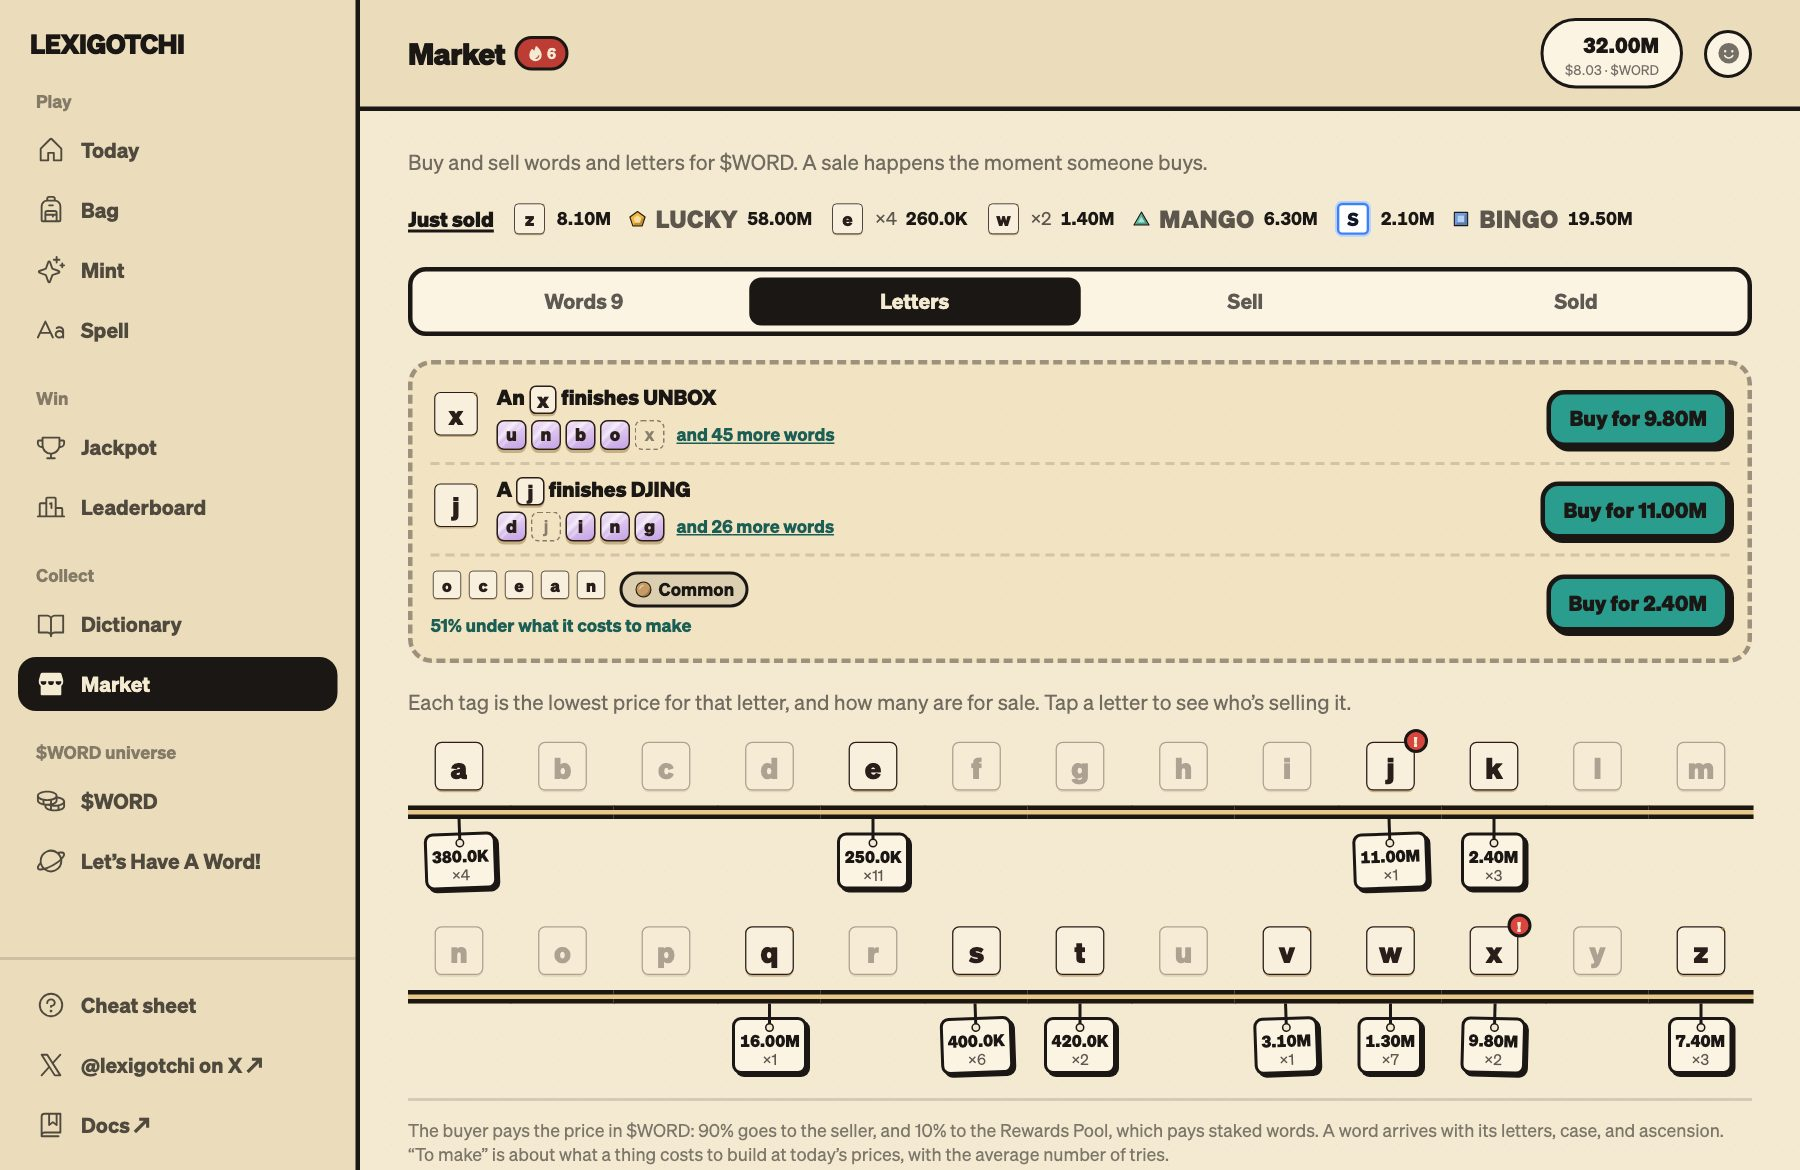
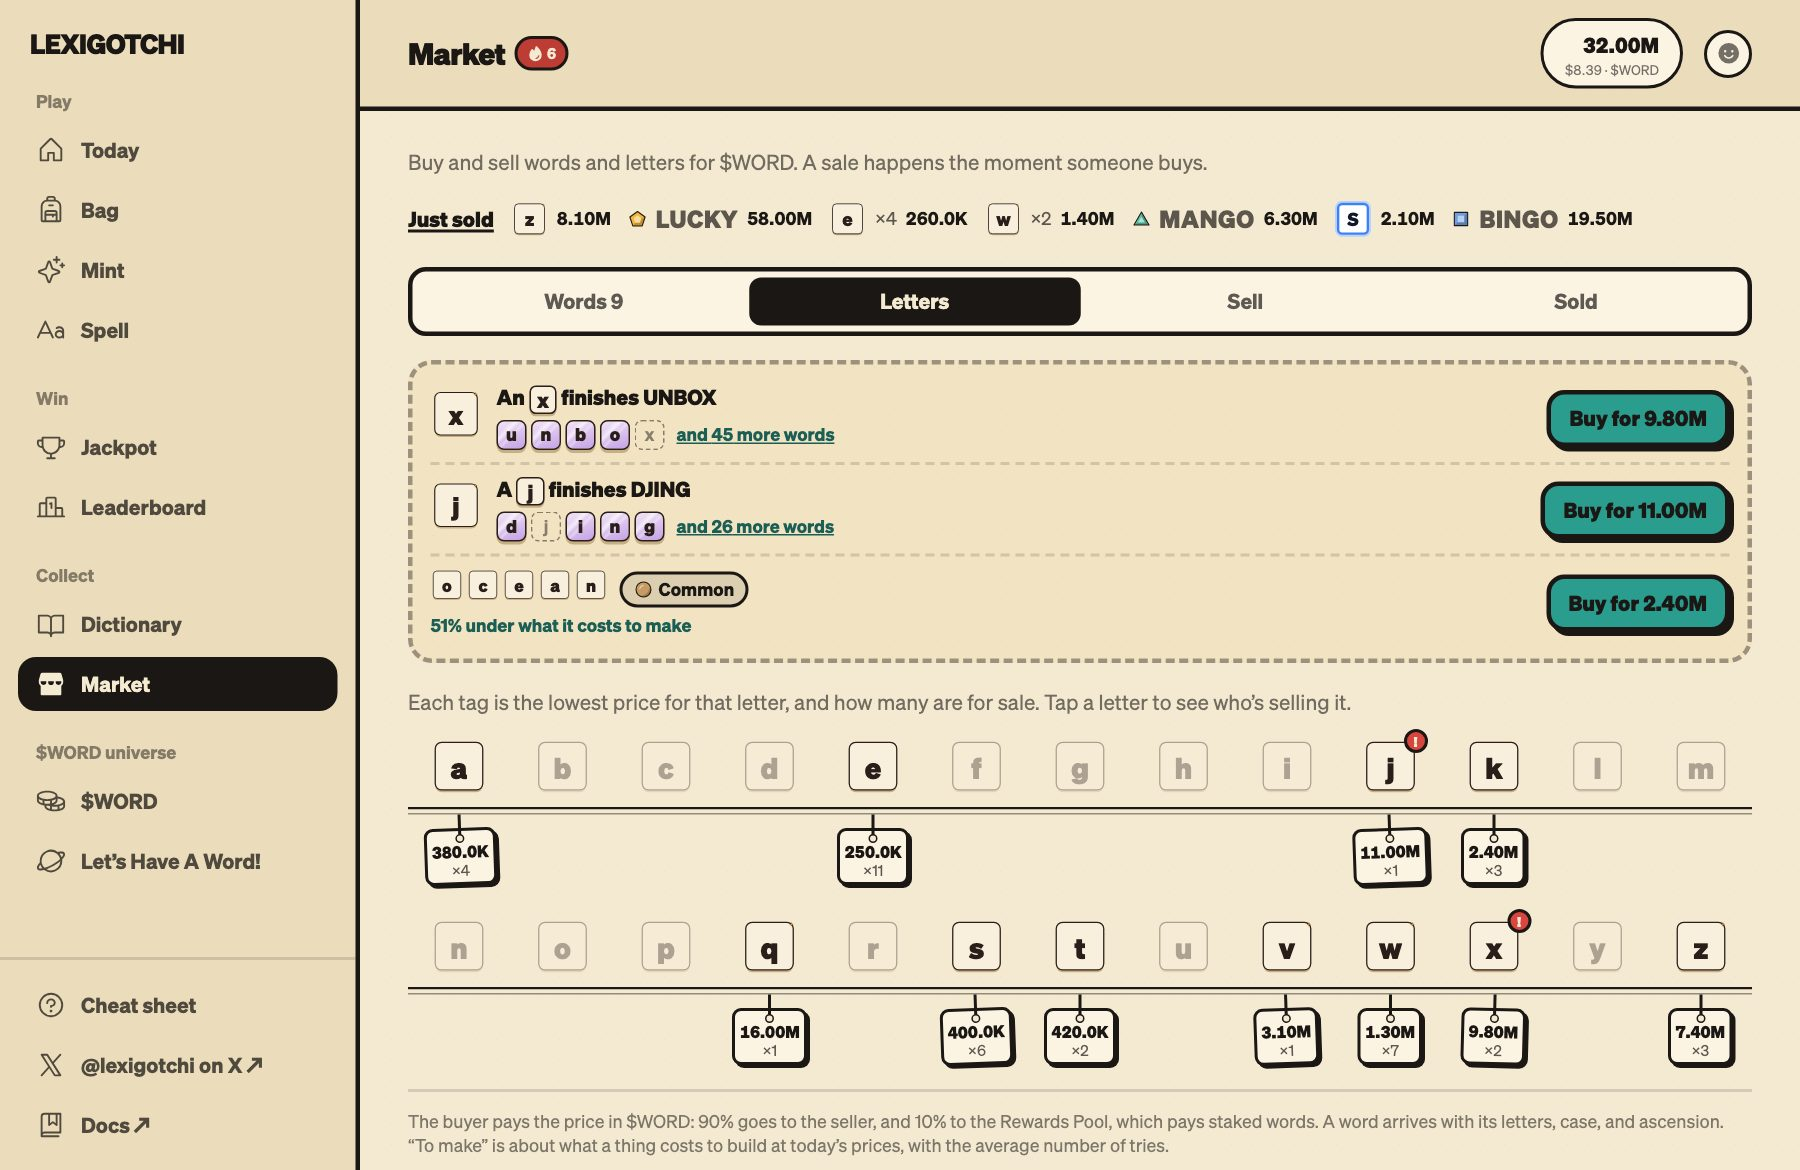
The Market's letters stand on a fine double rule, one line a row (decisions.md #50, part 3) (#281)
* WIP: the Market's shelf stands on a fine double rule

* The Market's letters stand on a fine double rule, one line a row (decisions.md #50, part 3)

The owner, on the review page "Four Bigger Pieces": "yes to 2C".

The shelf was a flat tan plank between two heavy ink lines, a piece
under each letter. It is an ink line with a fainter one under it, as a
card's frame is ruled. The tags are as they were.

One line a row, drawn by the row's first slot: a piece a slot showed a
darker tick at every join at pixel ratios 1.25 and 1.5 (each piece is a
pixel wider than its slot, and a thin line was drawn twice there), and
pieces exactly a slot wide left gaps in WebKit. The line lets taps
through to the letter above it.

---------

Changed region(s): [[0.2178, 0.6769, 0.9956, 1.0]]

diff --git a/tests/market-shelf.test.ts b/tests/market-shelf.test.ts
@@ -1,0 +1,72 @@
+/**
+ * The Market's letter shelf (globals.css, .mk-rule; decisions.md #50, part 3): the letters stand on
+ * a fine double rule, drawn ONCE a row. The owner chose it over a plank ("yes to 2C").
+ *
+ * A line made of one piece a slot has joins. Pieces a pixel wider than their slots showed a darker
+ * tick at every join at pixel ratios 1.25 and 1.5 (thin lines drawn twice), and pieces exactly a
+ * slot wide left gaps there in WebKit. So the first slot of each row draws the whole row's line,
+ * and the count of slots in a row is written in two places that must agree: the grid's columns
+ * (LettersBoard) and the rule's width here.
+ */
+import { describe, it, expect } from "vitest";
+import { readFileSync } from "node:fs";
+import { join } from "node:path";
+
+const read = (p: string) => readFileSync(join(process.cwd(), p), "utf8");
+const css = read("src/app/globals.css").replace(/\/\*[\s\S]*?\*\//g, "");
+const board = read("src/components/game/market/LettersBoard.tsx");
+const rule = (selector: string, from = 0) => {
+  const at = css.indexOf(`${selector} {`, from);
+  expect(at, selector).toBeGreaterThanOrEqual(0);
+  return css.slice(at, css.indexOf("}", at));
+};
+
+describe("the Market's letter shelf", () => {
+  it("stands the letters on a rule, and the plank is gone", () => {
+    expect(css).not.toContain(".mk-plank");
+    expect(board).not.toContain("mk-plank");
+    // one under each letter, and one under each of the two places that fill a phone's last row
+    expect(board.match(/className="mk-rule"/g)).toHaveLength(2);
+  });
+
+  it("draws one line a row: as many slots wide as the grid has columns, on a phone and from md", () => {
+    const phone = Number(/grid-cols-(\d+)/.exec(board)?.[1]);
+    const wide = Number(/md:grid-cols-\[repeat\((\d+),/.exec(board)?.[1]);
+    expect([phone, wide]).toEqual([7, 13]);
+    // a phone: the first slot of every row of 7 draws 7 slots' worth
+    const first = rule(`.mk-slot:nth-child(${phone}n + 1) .mk-rule`);
+    expect(first).toContain(`width: ${phone}00%`);
+    expect(first).toContain("background: var(--mk-lines)");
+    // from md: that slot goes back to its own width and draws nothing, and every 13th draws 13
+    const md = css.indexOf("@media (min-width: 768px)", css.indexOf(".mk-rule {"));
+    expect(md).toBeGreaterThan(0);
+    const undone = rule(`.mk-slot:nth-child(${phone}n + 1) .mk-rule`, md);
+    expect(undone).toContain("width: 100%");
+    expect(undone).toContain("background: none");
+    const firstWide = rule(`.mk-slot:nth-child(${wide}n + 1) .mk-rule`, md);
+    expect(firstWide).toContain(`width: ${wide}00%`);
+    expect(firstWide).toContain("background: var(--mk-lines)");
+    // 26 letters and the two filling places make whole rows of 7; 26 make whole rows of 13
+    expect((26 + 2) % phone).toBe(0);
+    expect(26 % wide).toBe(0);
+  });
+
+  it("lets a tap on the line through to the letter above it, and starts at its own slot's left edge", () => {
+    const base = rule(".mk-rule");
+    // the row's line is the FIRST letter's child and lies over every slot in the row
+    expect(base).toContain("pointer-events: none");
+    // the slot centres its children: a line 7 slots wide must not be centred on the first slot
+    expect(base).toContain("align-self: flex-start");
+    expect(rule(".mk-slot")).toContain("align-items: center");
+  });
+
+  it("is two solid lines: ink, and a fainter one under it", () => {
+    const base = rule(".mk-rule");
+    const lines = /--mk-lines:([\s\S]*?);/.exec(base)?.[1] ?? "";
+    expect(lines.match(/linear-gradient\(/g)).toHaveLength(2);
+    // solid colours only: nothing see-through, which would show the page's dots through the line
+    expect(lines).not.toMatch(/rgba?\(|\/\s*0?\.\d|transparent|opacity/);
+    expect(lines).toMatch(/0 0 \/ 100% 1\.5px no-repeat/);
+    expect(lines).toMatch(/0 100% \/ 100% 1px no-repeat/);
+  });
+});

diff --git a/src/app/globals.css b/src/app/globals.css
@@ -1204,11 +1204,14 @@ a.cb-id { text-decoration: underline; text-underline-offset: 2px; }
 
 /* ---------------------------------------------------------------------------------------------
    The Market's letter shelf (decisions.md #30; components/game/market/LettersBoard.tsx).
-   The 26 letters stand on a plank, and a paper price tag hangs under each one that is for sale:
-   the lowest price, and how many. 52 kinds of letter hold any number of listings, so the shelf is
-   the same size whether three letters are for sale or three thousand.
-   - .mk-slot: one letter's place (a button). Its plank segment meets its neighbors', so each row
-     reads as one shelf.
+   The 26 letters stand on a fine double rule, and a paper price tag hangs under each one that is
+   for sale: the lowest price, and how many. 52 kinds of letter hold any number of listings, so the
+   shelf is the same size whether three letters are for sale or three thousand.
+   - .mk-slot: one letter's place (a button). Its piece of the rule meets its neighbors', so each
+     row reads as one shelf.
+   - .mk-rule: what the letters stand on. It was a flat tan plank between two heavy ink lines; the
+     owner chose the lightest of three (decisions.md #50, "yes to 2C"): no plank, an ink line and a
+     fainter one under it, as a card's frame is ruled.
    - .mk-tag: the tag, on its string (::before), with its punched hole (::after). Alternate tags
      hang a degree or two off level; the open letter's tag is ink ("you are here" is ink).
    Still: nothing here moves by itself. A hover lifts the tag where a mouse hovers.
@@ -1220,15 +1223,28 @@ a.cb-id { text-decoration: underline; text-underline-offset: 2px; }
   padding-top: 6px;
   min-width: 0;
 }
-.mk-plank {
+.mk-rule {
   display: block;
-  /* A pixel over its slot, so no seam shows between neighbors at a fractional pixel ratio. */
-  width: calc(100% + 1px);
-  height: 9px;
-  margin-top: 1px;
-  background: theme(colors.tile);
-  border-top: 3px solid theme(colors.ink);
-  border-bottom: 3px solid theme(colors.ink);
+  align-self: flex-start;
+  width: 100%;
+  height: 5px;
+  margin-top: 2px;
+  /* a row's line lies over every slot in the row: a tap on it goes to the letter above it */
+  pointer-events: none;
+  --mk-lines:
+    linear-gradient(theme(colors.ink), theme(colors.ink)) 0 0 / 100% 1.5px no-repeat,
+    linear-gradient(#928b7c, #928b7c) 0 100% / 100% 1px no-repeat;
+}
+/* ONE line a row, drawn by the row's first slot across the whole row (7 slots on a phone, 13 from
+   md); every other slot keeps its place under the letter and draws nothing. A line made of one
+   piece a slot has joins: the plank hid them by making each piece a pixel wider than its slot,
+   and thin lines drawn twice in that pixel showed a darker tick at every join at pixel ratios
+   1.25 and 1.5. Pieces exactly a slot wide left gaps there in WebKit. The lower line is a solid
+   colour (the page's paper with 45% ink, mixed here). */
+.mk-slot:nth-child(7n + 1) .mk-rule { width: 700%; background: var(--mk-lines); }
+@media (min-width: 768px) {
+  .mk-slot:nth-child(7n + 1) .mk-rule { width: 100%; background: none; }
+  .mk-slot:nth-child(13n + 1) .mk-rule { width: 1300%; background: var(--mk-lines); }
 }
 .mk-tag {
   position: relative;

diff --git a/src/components/game/market/LettersBoard.tsx b/src/components/game/market/LettersBoard.tsx
@@ -95,7 +95,7 @@ export function LettersBoard({
                   </span>
                 )}
               </span>
-              <span className="mk-plank" />
+              <span className="mk-rule" />
               {s.lowest !== undefined ? (
                 <span className="mk-tag">
                   <span className="block font-display text-[11px] font-extrabold tabular-nums">{fmtWord(s.lowest)}</span>
@@ -107,14 +107,14 @@ export function LettersBoard({
             </button>
           );
         })}
-        {/* 26 letters in rows of 7 leave two places: the plank runs on, so the last row is a whole shelf. */}
+        {/* 26 letters in rows of 7 leave two places: the rule runs on, so the last row is a whole shelf. */}
         {[0, 1].map((k) => (
           <span key={k} className="mk-slot md:hidden" aria-hidden>
-            {/* An unseen tile, so the plank sits exactly where its neighbors' do. */}
+            {/* An unseen tile, so the rule sits exactly where its neighbors' do. */}
             <span className="invisible">
               <LetterTile char="a" size={38} />
             </span>
-            <span className="mk-plank" />
+            <span className="mk-rule" />
           </span>
         ))}
       </div>

diff --git a/docs/decisions.md b/docs/decisions.md
@@ -2208,6 +2208,30 @@ setter. All small, riding existing suite patterns.
       - **Seen and not seen (part 2):** the running landing page at 390, 768, 1,024, and
         1,280 px in WebKit and Chromium: no error, no sideways scrolling, the card beside the
         headline from 1,024 px and under it below. Not seen: a real phone.
+    - **Part 3, the Market's letters stand on a fine double rule** (2C; globals.css `.mk-rule`,
+      `LettersBoard.tsx`). The shelf was a flat tan plank between two heavy ink lines. It is an
+      ink line 1.5 px thick with a fainter line under it, 5 px in all, as a card's frame is
+      ruled. The tags are as they were, and each tag's string still reaches the rule. The shelf
+      is 6 px shorter a row.
+      - **One line a row, not one piece a slot.** The plank was a piece under each letter, each
+        a pixel wider than its slot so that no gap showed between neighbors. With thin lines that
+        pixel showed: at pixel ratios 1.25 and 1.5 the softened edge of the line was drawn twice
+        there, a darker tick at every join (about 53 of 255 darker). Pieces exactly a slot wide
+        left gaps at those ratios in WebKit (the page showing through the line). So the first
+        slot of each row draws the whole row's line (7 slots wide on a phone, 13 from md), and
+        every other slot keeps its place and draws nothing. The line lets taps through
+        (`pointer-events: none`): a tap on it goes to the letter above it.
+      - **The column counts are written twice**, in the grid (`LettersBoard`) and in the rule's
+        width (globals.css). `tests/market-shelf.test.ts` holds them equal.
+      - **Solid colours.** The lower line is the page's paper with 45% ink, mixed (`#928b7c`),
+        never a see-through ink: the page's dots would show through it.
+      - **Measured** (the practice game; 1,280 px at pixel ratios 1, 1.5, and 2; 768 px at 1.25;
+        390 px at 2 and 3; Chromium and WebKit): at every join between two slots the line is the
+        same as beside it, to 1 of 255. A tap on the line under the 5th, 10th, and 17th letter
+        opens that letter, on a phone and on a wide screen, in both.
+      - **Seen and not seen (part 3):** the whole shelf before and after at 1,280 px and 390 px;
+        the joins enlarged at all six settings. `screen-market.jpg` in the player docs is taken
+        again. Not seen: a real phone.
 
 51. **Reserved word sets: words held back at launch and released later, built in parts** (starl3xx,
     2026-11-26; he asked for this entry as #24, which the messaging guide already holds). In the

diff --git a/CLAUDE.md b/CLAUDE.md
@@ -318,6 +318,10 @@ for the mini app; sim/economy core is **zero-runtime-dependency TS** (runs via `
   `lib/market/`): words AND letters sell for $WORD, 10% to `SaleFees`. Four parts behind one switch
   (Words, Letters, Sell, Sold), "Just sold" and the player's picks above. Both stores feed it through
   `g.market` (the practice store from a seeded stall, `market/practiceMarket.ts`).
+  **The Letters shelf's line is one element a row** (`.mk-rule`; decisions.md #50, part 3): the row's first slot
+  draws it 7 slots wide on a phone and 13 from md, so the grid's column counts are written twice, in
+  `LettersBoard` and in globals.css (`tests/market-shelf.test.ts` holds them equal). A piece under each
+  letter showed a tick or a gap at every join at pixel ratios 1.25 and 1.5.
   **Letters for sale** (`lib/onchain/letterSale.ts`, `/api/market/letters`, table `letter_listings`,
   migration 0017): one Seaport order offers `qty` of one letter id at a price each, PARTIAL_OPEN,
   filled k of qty with `fulfillAdvancedOrder` (`fulfillPartCalls`). **Every amount is a per-letter
